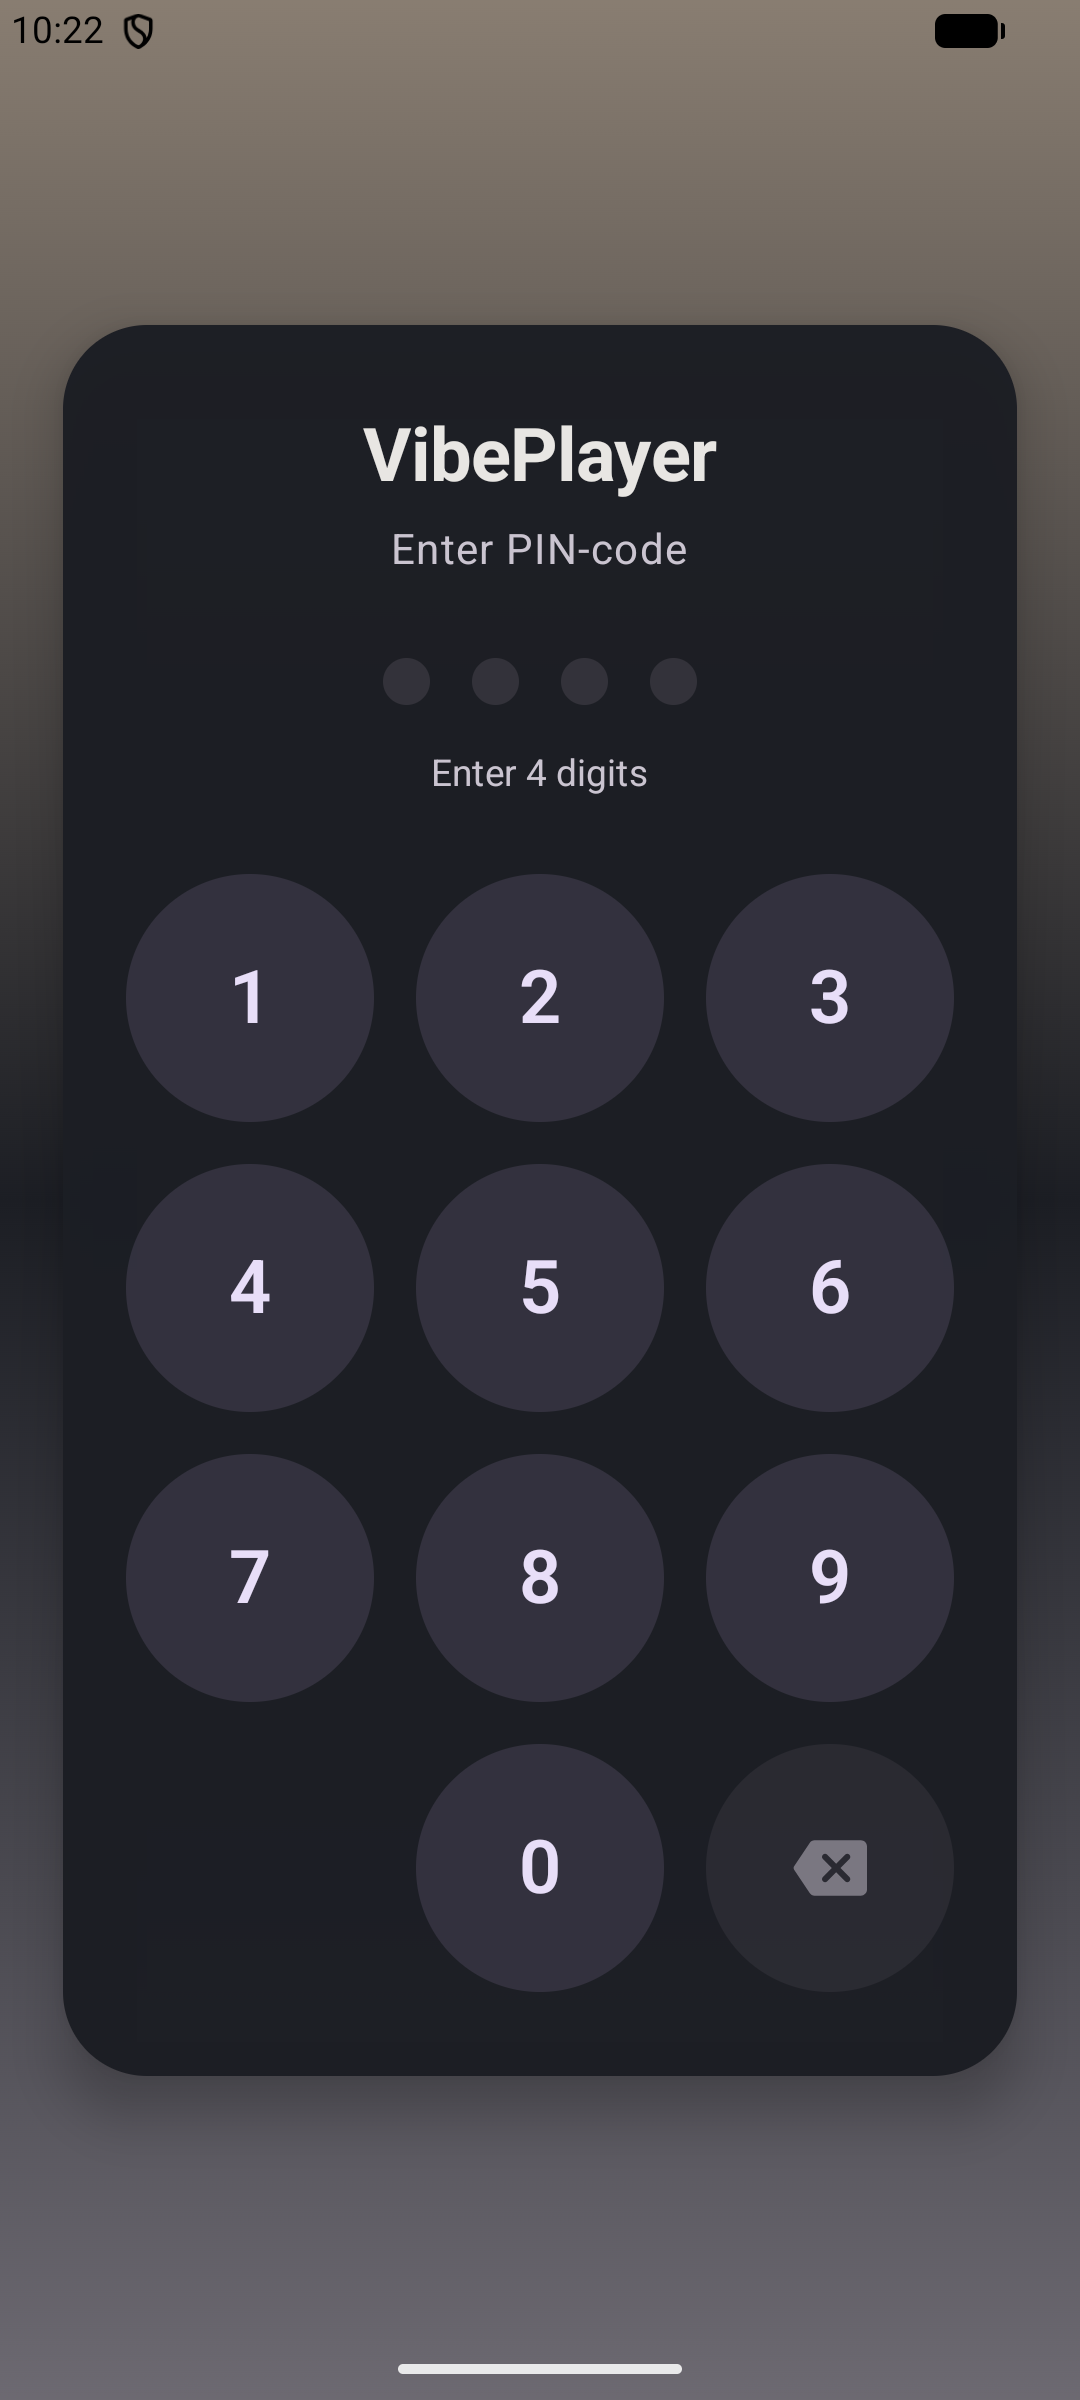
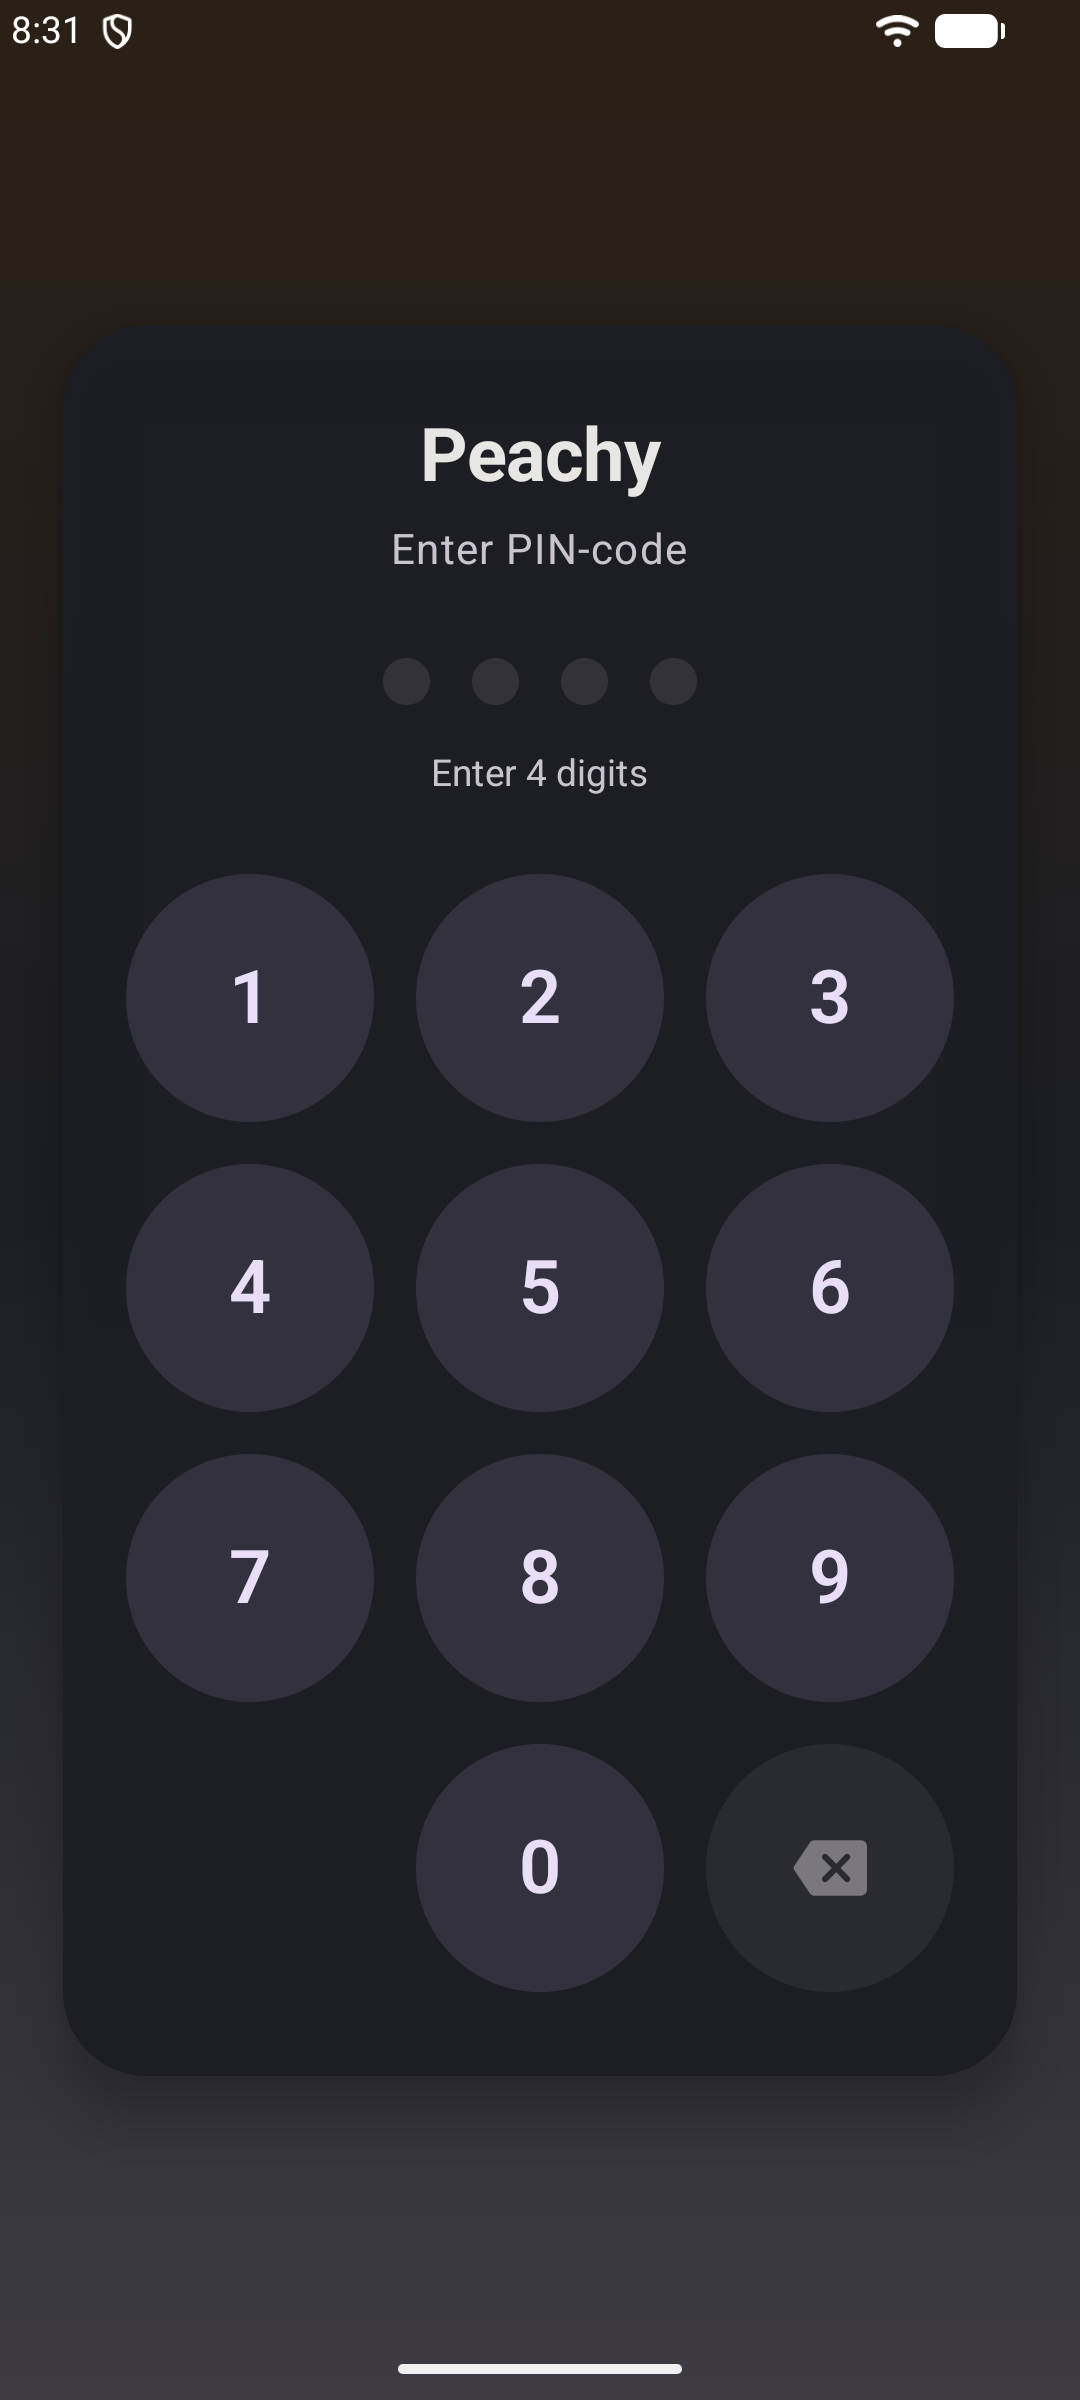
Release 3.2.0: retake screenshots, shorter engine label, version bump

diff --git a/app/src/main/java/ru/spgsroot/peachy/MainActivity.kt b/app/src/main/java/ru/spgsroot/peachy/MainActivity.kt
@@ -5,8 +5,10 @@ import android.content.Intent
 import android.os.Build
 import android.os.Bundle
 import android.view.WindowManager
+import android.graphics.Color
 import android.widget.Toast
 import androidx.activity.ComponentActivity
+import androidx.activity.SystemBarStyle
 import androidx.activity.compose.setContent
 import androidx.activity.enableEdgeToEdge
 import androidx.activity.viewModels
@@ -83,7 +85,11 @@ class MainActivity : ComponentActivity() {
             WindowManager.LayoutParams.FLAG_SECURE
         )
         if (savedInstanceState == null) shareImportViewModel.enqueue(intent)
-        enableEdgeToEdge()
+        // The app is dark in every system theme: light status and navigation bar icons.
+        enableEdgeToEdge(
+            statusBarStyle = SystemBarStyle.dark(Color.TRANSPARENT),
+            navigationBarStyle = SystemBarStyle.dark(Color.TRANSPARENT)
+        )
 
         setContent {
             PeachyTheme {

diff --git a/README_RU.md b/README_RU.md
@@ -1,6 +1,6 @@
 # Peachy
 
-Приватный плеер и галерея для взрослого контента: видео, галереи изображений и хентай-манга в одном приложении. Синхронизация воспроизведения с устройствами через протокол Buttplug (Intiface Central). Нативное приложение для Android, Jetpack Compose. Версия в этом дереве: `3.1.0` (`versionCode` 6). [English](README.md).
+Приватный плеер и галерея для взрослого контента: видео, галереи изображений и хентай-манга в одном приложении. Синхронизация воспроизведения с устройствами через протокол Buttplug (Intiface Central). Нативное приложение для Android, Jetpack Compose. Версия в этом дереве: `3.2.0` (`versionCode` 7). [English](README.md).
 
 На снимках — тестовые ролики. Обложки и названия в каталоге закрыты мозаикой, а снимок ридера показывает диалог настроек поверх страницы, закрытой мозаикой.
 
@@ -31,17 +31,29 @@
 |:---:|:---:|:---:|
 | <img src="repo/screens/gallery.png" width="180" alt="Галерея с двумя тестовыми роликами"/> | <img src="repo/screens/compress.png" width="180" alt="Пресеты сжатия и свои настройки"/> | <img src="repo/screens/note.png" width="180" alt="Личная заметка к ролику"/> |
 
+| Раскладка галереи | Загрузка | Ещё настройки |
+|:---:|:---:|:---:|
+| <img src="repo/screens/gallery-layout.png" width="180" alt="Обложки, размер плиток и сортировка"/> | <img src="repo/screens/download.png" width="180" alt="Загрузка в приложении или другим приложением"/> | <img src="repo/screens/settings-more.png" width="180" alt="Язык, перевод страниц, резервная копия"/> |
+
 ### Браузер и резервная копия
 
 | Стартовая страница | Видео на странице | Резервная копия |
 |:---:|:---:|:---:|
 | <img src="repo/screens/browser-start.png" width="180" alt="Стартовая страница браузера с закладками и историей"/> | <img src="repo/screens/browser-videos.png" width="180" alt="Видеофайлы, найденные на странице, с кнопкой сохранения"/> | <img src="repo/screens/backup.png" width="180" alt="Диалог выгрузки библиотеки с паролем"/> |
 
+| Меню браузера |
+|:---:|
+| <img src="repo/screens/browser-menu.png" width="180" alt="Меню браузера: вкладки, закладки, блокировщик рекламы"/> |
+
 ### Манга
 
 | Каталог | Меню | Теги | Ридер |
 |:---:|:---:|:---:|:---:|
-| <img src="repo/screens/catalog.png" width="180" alt="Каталог с фильтром по одному тегу, обложки закрыты"/> | <img src="repo/screens/drawer.png" width="180" alt="Боковое меню манги"/> | <img src="repo/screens/tags.png" width="180" alt="Браузер тегов"/> | <img src="repo/screens/reader.png" width="180" alt="Диалог настроек ридера поверх страницы под мозаикой"/> |
+| <img src="repo/screens/catalog.png" width="180" alt="Каталог, обложки закрыты"/> | <img src="repo/screens/drawer.png" width="180" alt="Боковое меню манги"/> | <img src="repo/screens/tags.png" width="180" alt="Браузер тегов"/> | <img src="repo/screens/reader.png" width="180" alt="Диалог настроек ридера поверх страницы под мозаикой"/> |
+
+| Провайдер перевода страниц |
+|:---:|
+| <img src="repo/screens/provider.png" width="180" alt="Диалог провайдера с пресетами, ключ скрыт"/> |
 
 ## Подробности
 

diff --git a/README.md b/README.md
@@ -1,6 +1,6 @@
 # Peachy
 
-Private player and gallery for adult content: videos, image galleries and hentai manga in one app. It syncs playback with devices through the Buttplug protocol (Intiface Central). Native Android, Jetpack Compose. Version in this tree: `3.1.0` (`versionCode` 6). [Русская версия](README_RU.md).
+Private player and gallery for adult content: videos, image galleries and hentai manga in one app. It syncs playback with devices through the Buttplug protocol (Intiface Central). Native Android, Jetpack Compose. Version in this tree: `3.2.0` (`versionCode` 7). [Русская версия](README_RU.md).
 
 Screenshots use sample clips. Catalog covers and titles are pixelated, and the reader shot shows its settings dialog over a pixelated page.
 
@@ -31,17 +31,29 @@ Screenshots use sample clips. Catalog covers and titles are pixelated, and the r
 |:---:|:---:|:---:|
 | <img src="repo/screens/gallery.png" width="180" alt="Gallery with two sample clips"/> | <img src="repo/screens/compress.png" width="180" alt="Compression presets and custom settings"/> | <img src="repo/screens/note.png" width="180" alt="Private note on a clip"/> |
 
+| Gallery layout | Download | More settings |
+|:---:|:---:|:---:|
+| <img src="repo/screens/gallery-layout.png" width="180" alt="Cover style, tile size and sort"/> | <img src="repo/screens/download.png" width="180" alt="Download in the app or with another app"/> | <img src="repo/screens/settings-more.png" width="180" alt="Language, page translation, backup"/> |
+
 ### Browser and backup
 
 | Start page | Page videos | Backup |
 |:---:|:---:|:---:|
 | <img src="repo/screens/browser-start.png" width="180" alt="Browser start page with bookmarks and history"/> | <img src="repo/screens/browser-videos.png" width="180" alt="Video files found on a page, with a save button"/> | <img src="repo/screens/backup.png" width="180" alt="Export library dialog with a password"/> |
 
+| Browser menu |
+|:---:|
+| <img src="repo/screens/browser-menu.png" width="180" alt="Browser menu: tabs, bookmarks, ad blocker"/> |
+
 ### Manga
 
 | Catalog | Menu | Tags | Reader |
 |:---:|:---:|:---:|:---:|
-| <img src="repo/screens/catalog.png" width="180" alt="Catalog filtered by one tag, covers pixelated"/> | <img src="repo/screens/drawer.png" width="180" alt="Manga navigation drawer"/> | <img src="repo/screens/tags.png" width="180" alt="Tag browser"/> | <img src="repo/screens/reader.png" width="180" alt="Reader settings dialog over a pixelated page"/> |
+| <img src="repo/screens/catalog.png" width="180" alt="Catalog, covers pixelated"/> | <img src="repo/screens/drawer.png" width="180" alt="Manga navigation drawer"/> | <img src="repo/screens/tags.png" width="180" alt="Tag browser"/> | <img src="repo/screens/reader.png" width="180" alt="Reader settings dialog over a pixelated page"/> |
+
+| Page translation provider |
+|:---:|
+| <img src="repo/screens/provider.png" width="180" alt="Provider dialog with presets, key hidden"/> |
 
 ## Details
 
